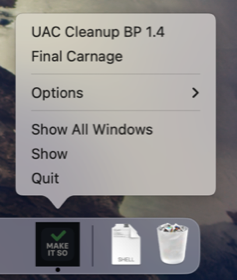
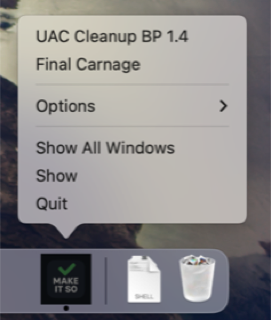
fix: sharpen dock screenshot by pre-scaling to native width

diff --git a/README.md b/README.md
@@ -49,7 +49,7 @@
 
 <p align="center">
   <!-- Dock menu: smaller -->
-  <img src="assets/screenshot_2.png" width="280" alt="Dock menu in macOS Dock">
+  <img src="assets/screenshot_2.png" alt="Dock menu in macOS Dock">
 </p>
 
 > 📸 More images may appear in Releases or the Wiki
